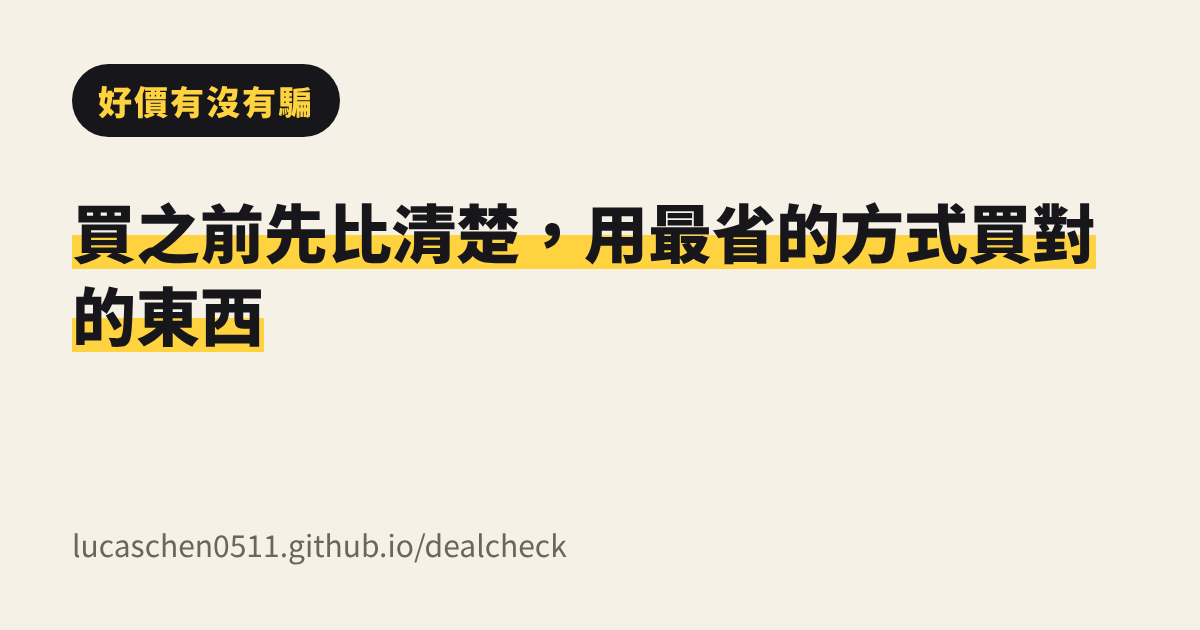
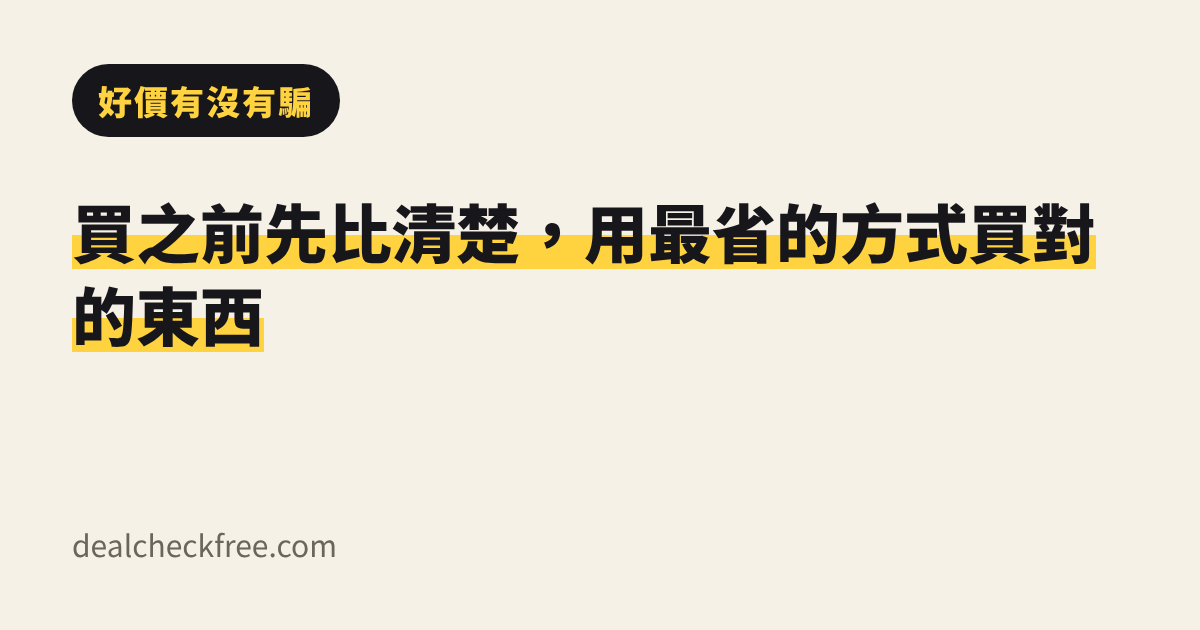
Move site to dealcheckfree.com root

Changed region(s): [[0.0617, 0.8444, 0.4625, 0.9048]]

diff --git a/index.html b/index.html
@@ -5,40 +5,40 @@
 <meta name="viewport" content="width=device-width, initial-scale=1">
 <title>好價有沒有騙</title>
 <meta name="description" content="買之前先比清楚，用最省的方式買對的東西">
-<link rel="canonical" href="https://lucaschen0511.github.io/dealcheck/">
+<link rel="canonical" href="https://dealcheckfree.com/">
 <meta property="og:site_name" content="好價有沒有騙">
 <meta property="og:locale" content="zh_TW">
 <meta property="og:title" content="好價有沒有騙">
 <meta property="og:description" content="買之前先比清楚，用最省的方式買對的東西">
 <meta property="og:type" content="website">
-<meta property="og:url" content="https://lucaschen0511.github.io/dealcheck/">
-<meta property="og:image" content="https://lucaschen0511.github.io/dealcheck/og-default.png">
+<meta property="og:url" content="https://dealcheckfree.com/">
+<meta property="og:image" content="https://dealcheckfree.com/og-default.png">
 <meta property="og:image:width" content="1200">
 <meta property="og:image:height" content="630">
 <meta name="twitter:card" content="summary_large_image">
 <link rel="preconnect" href="https://fonts.googleapis.com">
 <link rel="preconnect" href="https://fonts.gstatic.com" crossorigin>
 <link href="https://fonts.googleapis.com/css2?family=Noto+Sans+TC:wght@400;700;900&display=swap" rel="stylesheet">
-<link rel="stylesheet" href="/dealcheck/style.css">
-<script type="application/ld+json">{"@context": "https://schema.org", "@type": "WebSite", "name": "好價有沒有騙", "url": "https://lucaschen0511.github.io/dealcheck/", "inLanguage": "zh-Hant-TW", "description": "買之前先比清楚，用最省的方式買對的東西", "publisher": {"@type": "Organization", "name": "好價有沒有騙", "url": "https://lucaschen0511.github.io/dealcheck/", "sameAs": ["https://www.instagram.com/dealcheck.tw/", "https://www.threads.net/@dealcheck.tw"]}}</script>
+<link rel="stylesheet" href="/style.css">
+<script type="application/ld+json">{"@context": "https://schema.org", "@type": "WebSite", "name": "好價有沒有騙", "url": "https://dealcheckfree.com/", "inLanguage": "zh-Hant-TW", "description": "買之前先比清楚，用最省的方式買對的東西", "publisher": {"@type": "Organization", "name": "好價有沒有騙", "url": "https://dealcheckfree.com/", "sameAs": ["https://www.instagram.com/dealcheck.tw/", "https://www.threads.net/@dealcheck.tw"]}}</script>
 <meta name="google-site-verification" content="lmy5mPurRWhFRwTcVyd6ML9A5QgmqC82JgQiG5xG260" />
 <script>var ConverlyCustomData = {channelId: null};</script>
 <script async defer src="https://cdn.adotone.com/production/adlinks/8eae55c4c9de330d0c8623b0dcb631aaa679a3553e401bb2883bb3076e9ee837.js"></script>
 </head>
 <body>
 <header class="site"><div class="wrap">
-  <a class="brand" href="/dealcheck/">好價有沒有騙</a>
-  <nav><a href="/dealcheck/">文章</a><a href="/dealcheck/about.html">關於</a><a href="/dealcheck/disclosure.html">揭露聲明</a></nav>
+  <a class="brand" href="/">好價有沒有騙</a>
+  <nav><a href="/">文章</a><a href="/about.html">關於</a><a href="/disclosure.html">揭露聲明</a></nav>
 </div></header>
 <main><div class="wrap">
 <section class="hero">
   <h1><span>買之前先比清楚，用最省的方式買對的東西</span></h1>
   <p>每篇都把價格、單價和隱藏費用拆開算，告訴你哪個方案真的比較省。</p>
 </section>
-<ul class="list"><li><a class="t" href="/dealcheck/posts/hotel-booking-hidden-costs.html">出國訂房別只比房價：結帳前會多出來的 6 筆錢（2026 年版）</a><div class="d">訂房網站上的列表價，常常不是最後要付的錢。整理稅金服務費、日本住宿稅、海外刷卡手續費、選台幣結帳、取消政策等 6 筆容易漏算的費用，附比價檢查清單。</div><div class="meta">發布 2026/11/18</div></li></ul>
+<ul class="list"><li><a class="t" href="/posts/hotel-booking-hidden-costs.html">出國訂房別只比房價：結帳前會多出來的 6 筆錢（2026 年版）</a><div class="d">訂房網站上的列表價，常常不是最後要付的錢。整理稅金服務費、日本住宿稅、海外刷卡手續費、選台幣結帳、取消政策等 6 筆容易漏算的費用，附比價檢查清單。</div><div class="meta">發布 2026/11/18</div></li></ul>
 </div></main>
 <footer class="site"><div class="wrap">
-  <p>本站部分連結為聯盟行銷連結，透過連結購買我們可能獲得佣金，你的價格不變。<a href="/dealcheck/disclosure.html">揭露聲明</a>・<a href="/dealcheck/privacy.html">隱私權政策</a></p>
+  <p>本站部分連結為聯盟行銷連結，透過連結購買我們可能獲得佣金，你的價格不變。<a href="/disclosure.html">揭露聲明</a>・<a href="/privacy.html">隱私權政策</a></p>
   <p>© 2026 好價有沒有騙　IG／Threads @dealcheck.tw</p>
 </div></footer>
 </body>

diff --git a/about.html b/about.html
@@ -5,21 +5,21 @@
 <meta name="viewport" content="width=device-width, initial-scale=1">
 <title>關於好價有沒有騙｜好價有沒有騙</title>
 <meta name="description" content="好價有沒有騙在做什麼、怎麼挑選與比較，以及怎麼聯絡我們。">
-<link rel="canonical" href="https://lucaschen0511.github.io/dealcheck/about.html">
+<link rel="canonical" href="https://dealcheckfree.com/about.html">
 <meta property="og:site_name" content="好價有沒有騙">
 <meta property="og:locale" content="zh_TW">
 <meta property="og:title" content="關於好價有沒有騙｜好價有沒有騙">
 <meta property="og:description" content="好價有沒有騙在做什麼、怎麼挑選與比較，以及怎麼聯絡我們。">
 <meta property="og:type" content="website">
-<meta property="og:url" content="https://lucaschen0511.github.io/dealcheck/about.html">
-<meta property="og:image" content="https://lucaschen0511.github.io/dealcheck/og-default.png">
+<meta property="og:url" content="https://dealcheckfree.com/about.html">
+<meta property="og:image" content="https://dealcheckfree.com/og-default.png">
 <meta property="og:image:width" content="1200">
 <meta property="og:image:height" content="630">
 <meta name="twitter:card" content="summary_large_image">
 <link rel="preconnect" href="https://fonts.googleapis.com">
 <link rel="preconnect" href="https://fonts.gstatic.com" crossorigin>
 <link href="https://fonts.googleapis.com/css2?family=Noto+Sans+TC:wght@400;700;900&display=swap" rel="stylesheet">
-<link rel="stylesheet" href="/dealcheck/style.css">
+<link rel="stylesheet" href="/style.css">
 
 <meta name="google-site-verification" content="lmy5mPurRWhFRwTcVyd6ML9A5QgmqC82JgQiG5xG260" />
 <script>var ConverlyCustomData = {channelId: null};</script>
@@ -27,8 +27,8 @@
 </head>
 <body>
 <header class="site"><div class="wrap">
-  <a class="brand" href="/dealcheck/">好價有沒有騙</a>
-  <nav><a href="/dealcheck/">文章</a><a href="/dealcheck/about.html">關於</a><a href="/dealcheck/disclosure.html">揭露聲明</a></nav>
+  <a class="brand" href="/">好價有沒有騙</a>
+  <nav><a href="/">文章</a><a href="/about.html">關於</a><a href="/disclosure.html">揭露聲明</a></nav>
 </div></header>
 <main><div class="wrap">
 <article><h1>關於好價有沒有騙</h1><div class="body"><p>「好價有沒有騙」幫你在買之前比清楚：標價有沒有灌水、單價到底多少、結帳前會不會多出一堆費用，最後告訴你用哪個方式買最省。</p>
@@ -43,7 +43,7 @@
 <p>IG 與 Threads：@dealcheck.tw，私訊或留言都可以。發現文章資訊過期或有錯，也歡迎告訴我們，我們會更新。</p></div></article>
 </div></main>
 <footer class="site"><div class="wrap">
-  <p>本站部分連結為聯盟行銷連結，透過連結購買我們可能獲得佣金，你的價格不變。<a href="/dealcheck/disclosure.html">揭露聲明</a>・<a href="/dealcheck/privacy.html">隱私權政策</a></p>
+  <p>本站部分連結為聯盟行銷連結，透過連結購買我們可能獲得佣金，你的價格不變。<a href="/disclosure.html">揭露聲明</a>・<a href="/privacy.html">隱私權政策</a></p>
   <p>© 2026 好價有沒有騙　IG／Threads @dealcheck.tw</p>
 </div></footer>
 </body>

diff --git a/disclosure.html b/disclosure.html
@@ -5,21 +5,21 @@
 <meta name="viewport" content="width=device-width, initial-scale=1">
 <title>揭露聲明｜好價有沒有騙</title>
 <meta name="description" content="好價有沒有騙使用聯盟行銷連結的說明。">
-<link rel="canonical" href="https://lucaschen0511.github.io/dealcheck/disclosure.html">
+<link rel="canonical" href="https://dealcheckfree.com/disclosure.html">
 <meta property="og:site_name" content="好價有沒有騙">
 <meta property="og:locale" content="zh_TW">
 <meta property="og:title" content="揭露聲明｜好價有沒有騙">
 <meta property="og:description" content="好價有沒有騙使用聯盟行銷連結的說明。">
 <meta property="og:type" content="website">
-<meta property="og:url" content="https://lucaschen0511.github.io/dealcheck/disclosure.html">
-<meta property="og:image" content="https://lucaschen0511.github.io/dealcheck/og-default.png">
+<meta property="og:url" content="https://dealcheckfree.com/disclosure.html">
+<meta property="og:image" content="https://dealcheckfree.com/og-default.png">
 <meta property="og:image:width" content="1200">
 <meta property="og:image:height" content="630">
 <meta name="twitter:card" content="summary_large_image">
 <link rel="preconnect" href="https://fonts.googleapis.com">
 <link rel="preconnect" href="https://fonts.gstatic.com" crossorigin>
 <link href="https://fonts.googleapis.com/css2?family=Noto+Sans+TC:wght@400;700;900&display=swap" rel="stylesheet">
-<link rel="stylesheet" href="/dealcheck/style.css">
+<link rel="stylesheet" href="/style.css">
 
 <meta name="google-site-verification" content="lmy5mPurRWhFRwTcVyd6ML9A5QgmqC82JgQiG5xG260" />
 <script>var ConverlyCustomData = {channelId: null};</script>
@@ -27,8 +27,8 @@
 </head>
 <body>
 <header class="site"><div class="wrap">
-  <a class="brand" href="/dealcheck/">好價有沒有騙</a>
-  <nav><a href="/dealcheck/">文章</a><a href="/dealcheck/about.html">關於</a><a href="/dealcheck/disclosure.html">揭露聲明</a></nav>
+  <a class="brand" href="/">好價有沒有騙</a>
+  <nav><a href="/">文章</a><a href="/about.html">關於</a><a href="/disclosure.html">揭露聲明</a></nav>
 </div></header>
 <main><div class="wrap">
 <article><h1>揭露聲明</h1><div class="body"><p>本站部分文章含有<strong>聯盟行銷連結</strong>。當你透過這些連結購買商品或服務，我們可能會從商家獲得一定比例的佣金。<strong>你的購買價格不會因此提高。</strong></p>
@@ -46,7 +46,7 @@
 <p>如果對某篇文章的連結或內容有疑問，歡迎在 IG 或 Threads @dealcheck.tw 私訊我們。</p></div></article>
 </div></main>
 <footer class="site"><div class="wrap">
-  <p>本站部分連結為聯盟行銷連結，透過連結購買我們可能獲得佣金，你的價格不變。<a href="/dealcheck/disclosure.html">揭露聲明</a>・<a href="/dealcheck/privacy.html">隱私權政策</a></p>
+  <p>本站部分連結為聯盟行銷連結，透過連結購買我們可能獲得佣金，你的價格不變。<a href="/disclosure.html">揭露聲明</a>・<a href="/privacy.html">隱私權政策</a></p>
   <p>© 2026 好價有沒有騙　IG／Threads @dealcheck.tw</p>
 </div></footer>
 </body>

diff --git a/privacy.html b/privacy.html
@@ -5,21 +5,21 @@
 <meta name="viewport" content="width=device-width, initial-scale=1">
 <title>隱私權政策｜好價有沒有騙</title>
 <meta name="description" content="好價有沒有騙如何處理瀏覽資料與第三方連結。">
-<link rel="canonical" href="https://lucaschen0511.github.io/dealcheck/privacy.html">
+<link rel="canonical" href="https://dealcheckfree.com/privacy.html">
 <meta property="og:site_name" content="好價有沒有騙">
 <meta property="og:locale" content="zh_TW">
 <meta property="og:title" content="隱私權政策｜好價有沒有騙">
 <meta property="og:description" content="好價有沒有騙如何處理瀏覽資料與第三方連結。">
 <meta property="og:type" content="website">
-<meta property="og:url" content="https://lucaschen0511.github.io/dealcheck/privacy.html">
-<meta property="og:image" content="https://lucaschen0511.github.io/dealcheck/og-default.png">
+<meta property="og:url" content="https://dealcheckfree.com/privacy.html">
+<meta property="og:image" content="https://dealcheckfree.com/og-default.png">
 <meta property="og:image:width" content="1200">
 <meta property="og:image:height" content="630">
 <meta name="twitter:card" content="summary_large_image">
 <link rel="preconnect" href="https://fonts.googleapis.com">
 <link rel="preconnect" href="https://fonts.gstatic.com" crossorigin>
 <link href="https://fonts.googleapis.com/css2?family=Noto+Sans+TC:wght@400;700;900&display=swap" rel="stylesheet">
-<link rel="stylesheet" href="/dealcheck/style.css">
+<link rel="stylesheet" href="/style.css">
 
 <meta name="google-site-verification" content="lmy5mPurRWhFRwTcVyd6ML9A5QgmqC82JgQiG5xG260" />
 <script>var ConverlyCustomData = {channelId: null};</script>
@@ -27,8 +27,8 @@
 </head>
 <body>
 <header class="site"><div class="wrap">
-  <a class="brand" href="/dealcheck/">好價有沒有騙</a>
-  <nav><a href="/dealcheck/">文章</a><a href="/dealcheck/about.html">關於</a><a href="/dealcheck/disclosure.html">揭露聲明</a></nav>
+  <a class="brand" href="/">好價有沒有騙</a>
+  <nav><a href="/">文章</a><a href="/about.html">關於</a><a href="/disclosure.html">揭露聲明</a></nav>
 </div></header>
 <main><div class="wrap">
 <article><h1>隱私權政策</h1><div class="body"><p>本站是靜態網站，<strong>不需要註冊、不收集你的姓名或聯絡資料</strong>，也沒有使用自己的流量分析工具。</p>
@@ -44,7 +44,7 @@
 <p>有任何問題，歡迎在 IG 或 Threads @dealcheck.tw 私訊我們。</p></div></article>
 </div></main>
 <footer class="site"><div class="wrap">
-  <p>本站部分連結為聯盟行銷連結，透過連結購買我們可能獲得佣金，你的價格不變。<a href="/dealcheck/disclosure.html">揭露聲明</a>・<a href="/dealcheck/privacy.html">隱私權政策</a></p>
+  <p>本站部分連結為聯盟行銷連結，透過連結購買我們可能獲得佣金，你的價格不變。<a href="/disclosure.html">揭露聲明</a>・<a href="/privacy.html">隱私權政策</a></p>
   <p>© 2026 好價有沒有騙　IG／Threads @dealcheck.tw</p>
 </div></footer>
 </body>

diff --git a/404.html b/404.html
@@ -5,21 +5,21 @@
 <meta name="viewport" content="width=device-width, initial-scale=1">
 <title>找不到這一頁｜好價有沒有騙</title>
 <meta name="description" content="這個頁面不存在或已經移除。">
-<link rel="canonical" href="https://lucaschen0511.github.io/dealcheck/404.html">
+<link rel="canonical" href="https://dealcheckfree.com/404.html">
 <meta property="og:site_name" content="好價有沒有騙">
 <meta property="og:locale" content="zh_TW">
 <meta property="og:title" content="找不到這一頁｜好價有沒有騙">
 <meta property="og:description" content="這個頁面不存在或已經移除。">
 <meta property="og:type" content="website">
-<meta property="og:url" content="https://lucaschen0511.github.io/dealcheck/404.html">
-<meta property="og:image" content="https://lucaschen0511.github.io/dealcheck/og-default.png">
+<meta property="og:url" content="https://dealcheckfree.com/404.html">
+<meta property="og:image" content="https://dealcheckfree.com/og-default.png">
 <meta property="og:image:width" content="1200">
 <meta property="og:image:height" content="630">
 <meta name="twitter:card" content="summary_large_image">
 <link rel="preconnect" href="https://fonts.googleapis.com">
 <link rel="preconnect" href="https://fonts.gstatic.com" crossorigin>
 <link href="https://fonts.googleapis.com/css2?family=Noto+Sans+TC:wght@400;700;900&display=swap" rel="stylesheet">
-<link rel="stylesheet" href="/dealcheck/style.css">
+<link rel="stylesheet" href="/style.css">
 
 <meta name="google-site-verification" content="lmy5mPurRWhFRwTcVyd6ML9A5QgmqC82JgQiG5xG260" />
 <script>var ConverlyCustomData = {channelId: null};</script>
@@ -27,15 +27,15 @@
 </head>
 <body>
 <header class="site"><div class="wrap">
-  <a class="brand" href="/dealcheck/">好價有沒有騙</a>
-  <nav><a href="/dealcheck/">文章</a><a href="/dealcheck/about.html">關於</a><a href="/dealcheck/disclosure.html">揭露聲明</a></nav>
+  <a class="brand" href="/">好價有沒有騙</a>
+  <nav><a href="/">文章</a><a href="/about.html">關於</a><a href="/disclosure.html">揭露聲明</a></nav>
 </div></header>
 <main><div class="wrap">
 <article><h1>找不到這一頁</h1><div class="body"><p>這個頁面不存在，可能已經移除或網址打錯了。</p>
-<p><a href="/dealcheck/">回到首頁看所有文章</a></p></div></article>
+<p><a href="/">回到首頁看所有文章</a></p></div></article>
 </div></main>
 <footer class="site"><div class="wrap">
-  <p>本站部分連結為聯盟行銷連結，透過連結購買我們可能獲得佣金，你的價格不變。<a href="/dealcheck/disclosure.html">揭露聲明</a>・<a href="/dealcheck/privacy.html">隱私權政策</a></p>
+  <p>本站部分連結為聯盟行銷連結，透過連結購買我們可能獲得佣金，你的價格不變。<a href="/disclosure.html">揭露聲明</a>・<a href="/privacy.html">隱私權政策</a></p>
   <p>© 2026 好價有沒有騙　IG／Threads @dealcheck.tw</p>
 </div></footer>
 </body>
